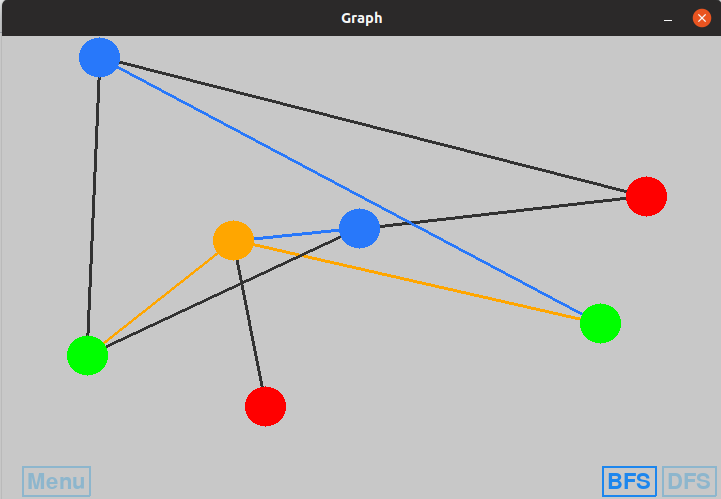
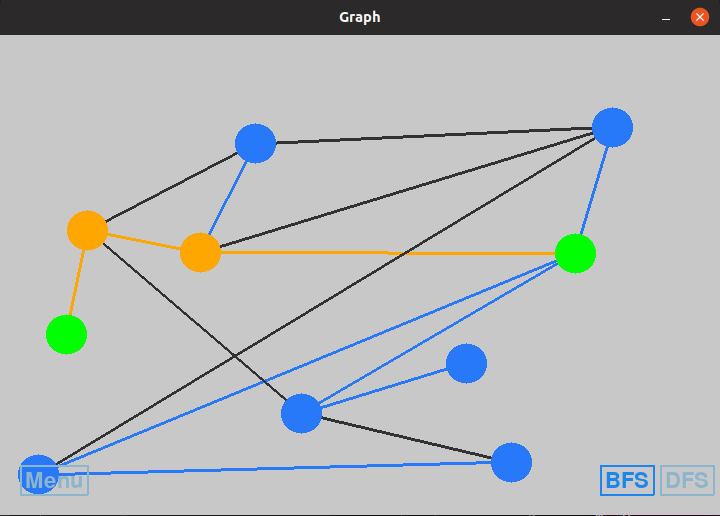
change node colors

diff --git a/modules/graph.py b/modules/graph.py
@@ -48,7 +48,7 @@ class Graph(object):
 
     def make_nodes_screen(self, nodes: list):
         for node in nodes:
-            node.original_color = RED
+            node.original_color = DARK_GRAY
             node.posX, node.posY = self.__set_positions()
             self.screen.create_node(node)
 
@@ -107,12 +107,14 @@ class Graph(object):
         self.screen.add_edge(edge)
         return edge
 
-    def __paint_tracking_edges(self, edge, node1, node2):
+    def __paint_tracking_edges(self, edge, node1, node2, color_index=0):
         '''
             Pintar o caminho de busca do node
         '''
-        self.__change_color_edge(edge, edge.path_tracking_color)
-        self.__change_color_node(node2, node2.path_tracking_color)
+        color = [(edge.path_tracking_color, node2.path_tracking_color),
+                 (edge.path_tracked_color, node2.path_tracked_middle_color)]
+        self.__change_color_edge(edge, color[color_index][0])
+        self.__change_color_node(node2, color[color_index][1])
         self.screen.draw(3)
 
     def __add_child_tree(self, parent_node, child_node, edge):
@@ -178,7 +180,6 @@ class Graph(object):
                 initial_node, Node.path_tracked_color)
             self.__change_color_node(
                 end_node, Node.path_tracked_color)
-            self.__paint_tracked_edges(result)
         else:
             self.screen.set_warning('Impossivel ligar os dois Vertices')
         return
@@ -197,7 +198,7 @@ class Graph(object):
                 neighbor.node.visited = True
                 # desenha caminho de busca
                 self.__paint_tracking_edges(
-                    neighbor.edge, node, neighbor.node)
+                    neighbor.edge, node, neighbor.node, 1)
                 # arvore de busca
                 self.__add_child_tree(
                     node, neighbor.node, neighbor.edge)
@@ -205,12 +206,18 @@ class Graph(object):
                 # verificar se eh o node procurado
                 if neighbor.node.value == end_node.value:
                     # retorna o node procurado com a arvore
-                    return neighbor.node
+                    return node
 
                 result = self.depth_first_search_recursion(
                     neighbor.node, end_node)
+
                 if result != None:
-                    return result
+                    node = result
+                    return node
+                else:
+                    self.__paint_tracking_edges(
+                        neighbor.edge, node, neighbor.node, 0)
+        initial_node = node
 
     def __return_random_nodes(self, node, qtt_average, qtt_edges_remainder):
         '''

diff --git a/modules/graph_screen.py b/modules/graph_screen.py
@@ -143,7 +143,7 @@ class GraphScreen(object):
         # remove an edge
         self.edges.pop()
 
-    def paint_node_selected(self, node, color=YELLOW):
+    def paint_node_selected(self, node, color=RED):
         node.color = color
 
     def clear_path(self):
